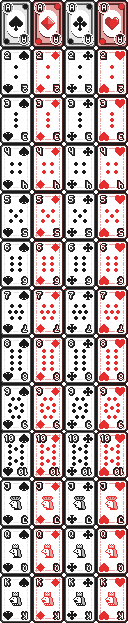
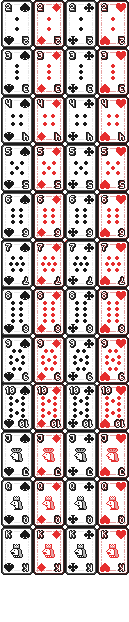
Removed aces

diff --git a/Game1.cs b/Game1.cs
@@ -71,19 +71,19 @@ public class Game1 : Game
 		string[] suits = { "SPADES", "DIAMONDS", "CLUBS", "HEARTS" };
 		for (int suitIndex = 0; suitIndex < suits.Length; suitIndex++)
 		{
-			for (int rank = 0; rank <= 13; rank++)
+			for (int rank = 0; rank <= 12; rank++)
 			{
 
 				_deck.Add(new Card(
 					new Rectangle(32 * suitIndex, 48 * rank, 32, 48),
 					suits[suitIndex],
 					rank,
-					rank == 13,
+					rank == 12,
 					new Vector2(rank, suitIndex)
 				));
 			}
 		}
-		foreach(var mt in _deck.Where(x=>x.m_rank == 13))
+		foreach(var mt in _deck.Where(x=>x.m_rank == 12))
 		{
 			mt.m_rank = 99;
 		}
@@ -191,7 +191,7 @@ public class Game1 : Game
 				if (_currentlySelectedCard.m_isEmpty)
 				{
 					//If in first column, we should not follow this logic.
-					if (_deck.IndexOf(_currentlySelectedCard) % 14 == 0)
+					if (_deck.IndexOf(_currentlySelectedCard) % 13 == 0)
 						break;
 					var _card_before_currently_selected = _deck[_deck.IndexOf(_currentlySelectedCard) - 1];
 					_currentlyHighlightedCard = _deck.FirstOrDefault(x => x.m_rank == _card_before_currently_selected.m_rank + 1 && x.m_suit == _card_before_currently_selected.m_suit);
